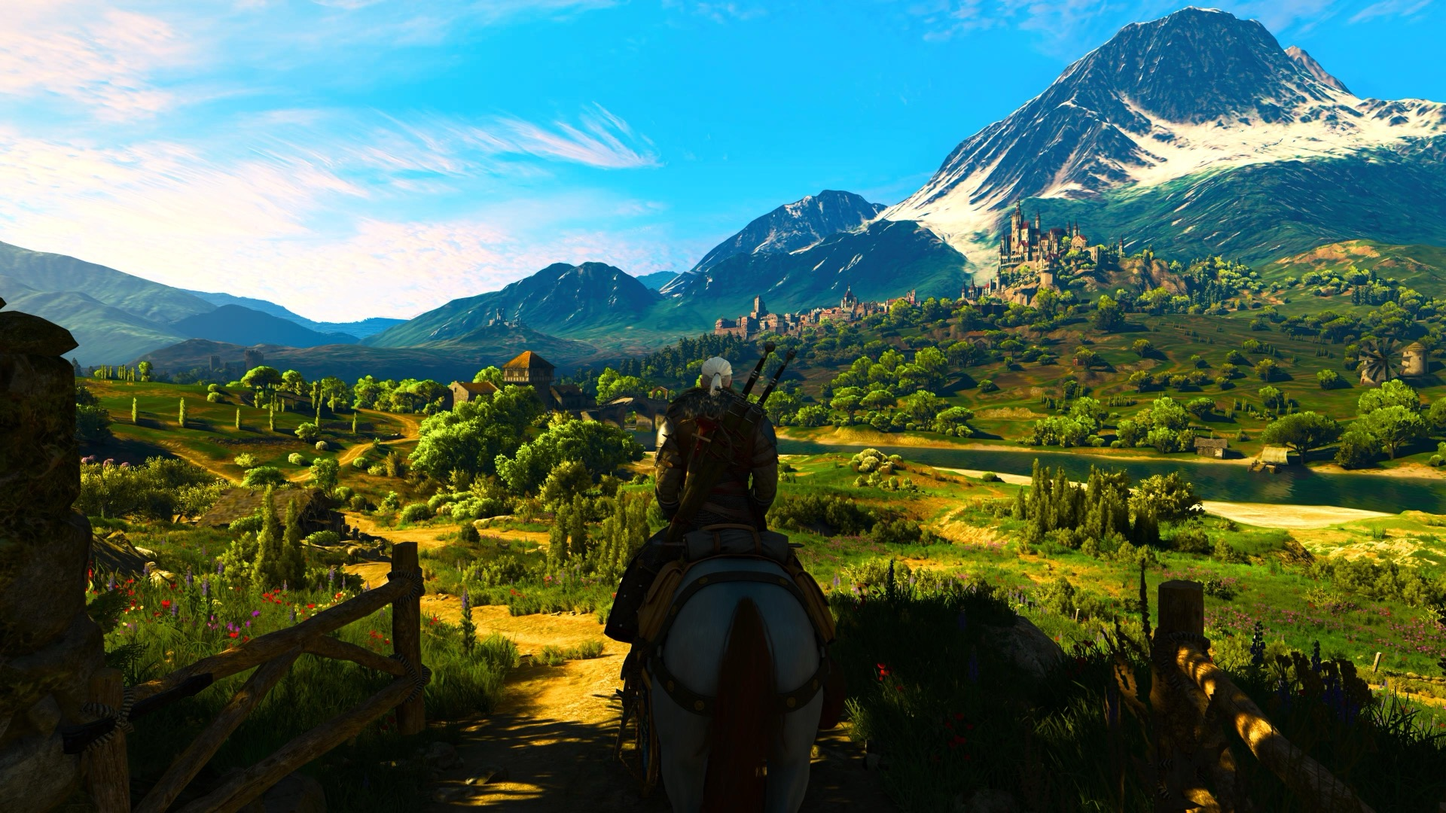
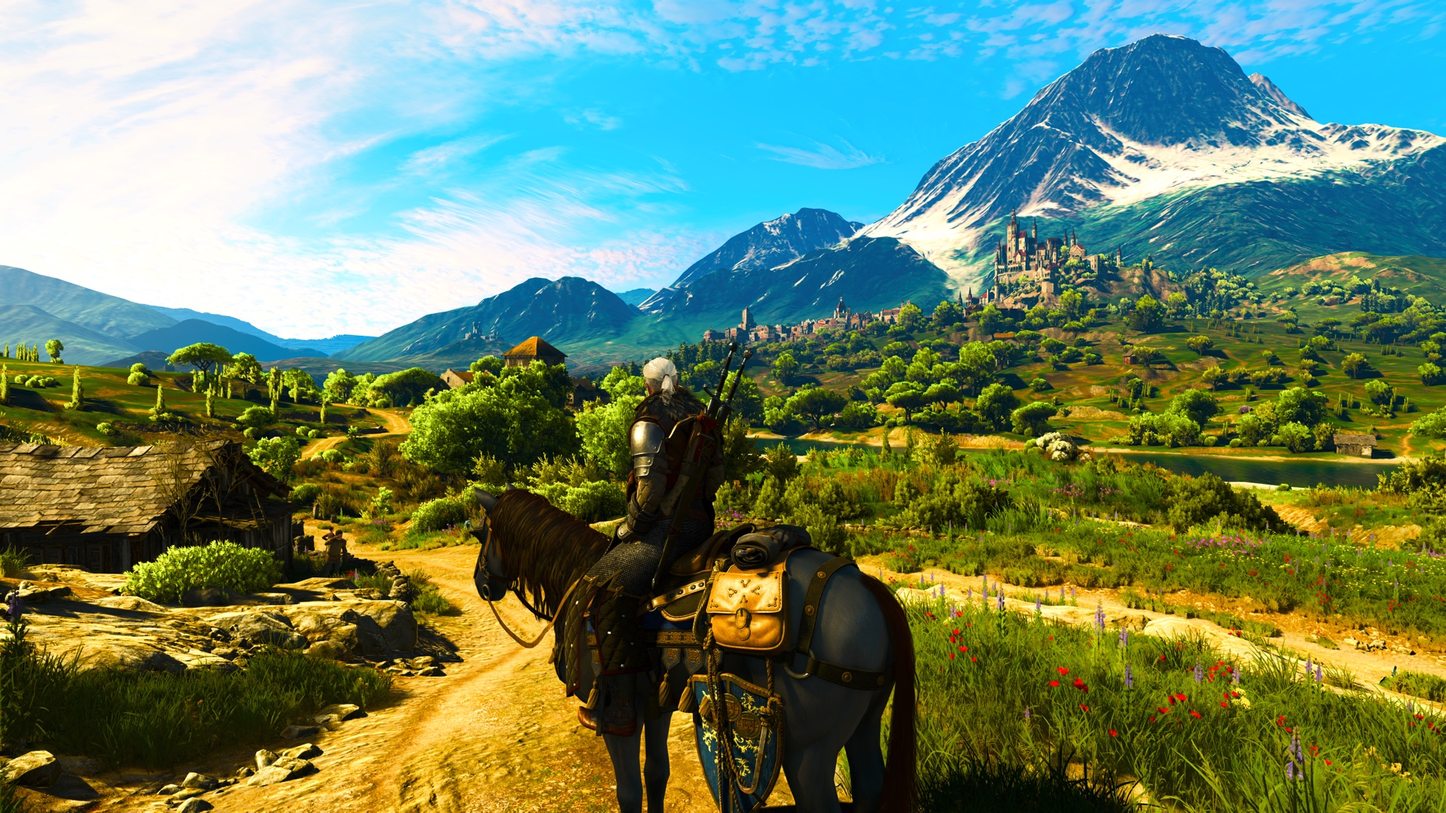
Homepage example: switch to the new PNG captures

diff --git a/public/index.html b/public/index.html
@@ -57,7 +57,7 @@
       <section class="demo" aria-labelledby="demo-title">
         <div class="demo-head">
           <h2 id="demo-title"><span data-i18n="demoTitle"></span><span class="demo-name">Witcher 3 Remastered · PS5 Pro</span></h2>
-          <a class="demo-open" href="/a/maS8JnRV" data-i18n="demoOpen"></a>
+          <a class="demo-open" href="/a/D5hMptW8" data-i18n="demoOpen"></a>
         </div>
         <div class="demo-tabs" role="group">
           <button type="button" class="left active" data-i="0" aria-pressed="true">Performance</button>

diff --git a/CHANGELOG.md b/CHANGELOG.md
@@ -2,6 +2,10 @@
 
 Every update to imgversus gets a version number and a short note here. Most updates bump the last number (1.2.1, 1.2.2, …); bigger milestones bump the middle or first one.
 
+## 1.2.8 – 2026-10-30
+
+- The example on the homepage got sharper. It now uses new screenshots captured as PNG, so there's less compression in the way of the details you're comparing.
+
 ## 1.2.7 – 2026-10-29
 
 - New **1:1** button (or `N`): every pixel of the image lands on exactly one pixel of your screen, no scaling at all. It takes Windows/Mac display scaling into account, so it's really 1:1 even at 150% or on a Retina screen. Open a 4K screenshot fullscreen on a 4K monitor and that's exactly what you see.
